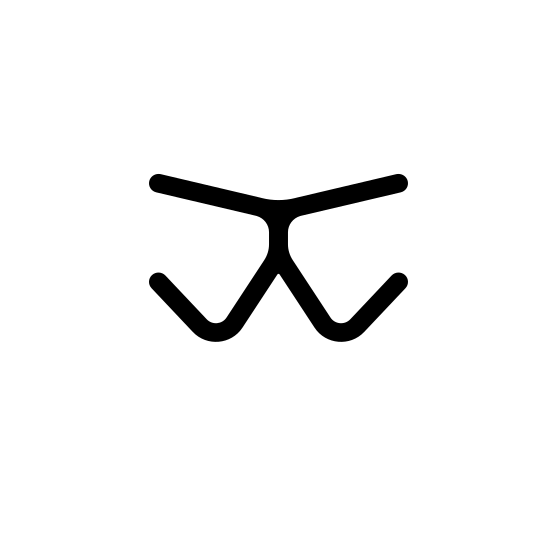
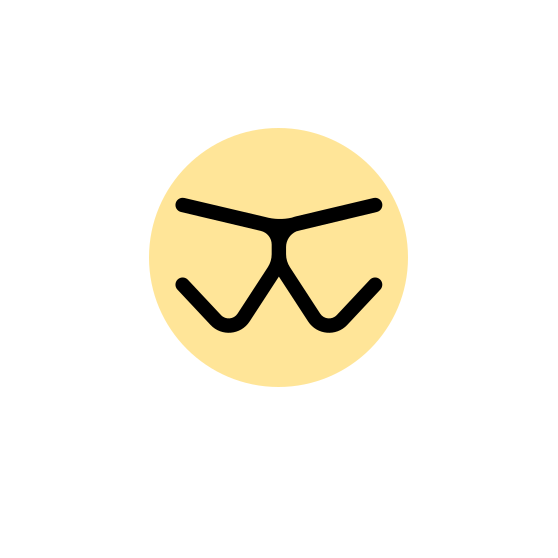
Jacob nits 2 (#9)
* new favicons

* form check

* added url to PackageLineDetails

* noWrapping of urls

Changed region(s): [[0.2437, 0.2133, 0.7312, 0.7007]]

diff --git a/src/components/publish/PublishView.tsx b/src/components/publish/PublishView.tsx
@@ -16,6 +16,7 @@ import React from "react";
 import styled from "styled-components";
 import { API_URL } from "../../App";
 import { ReactComponent as PackageFactory } from "../../assets/images/package-factory.svg";
+import { tiger } from "../../assets/theme/theme";
 import Footer, { footerHeight } from "../general/Footer";
 import { SnackBar } from "../general/SnackBar";
 
@@ -62,6 +63,8 @@ const styles = (theme: Theme) =>
       fontSize: 18,
       color: theme.palette.primary.dark,
       marginBottom: -12,
+      display: "flex",
+      placeItems: "flex-end",
     },
     description: {
       marginBottom: theme.spacing(3),
@@ -85,6 +88,9 @@ const styles = (theme: Theme) =>
       margin: 4,
       marginLeft: 15,
       marginRight: 15,
+    },
+    star: {
+      color: tiger,
     },
   });
 
@@ -140,6 +146,10 @@ class PublishView extends React.Component<PublishProps, PublishState> {
     }
   }
 
+  componentDidMount() {
+    this.setState({ url: "", version: "" });
+  }
+
   render() {
     const state: PublishState = this.state || {};
     return (
@@ -154,7 +164,9 @@ class PublishView extends React.Component<PublishProps, PublishState> {
               faster. Learn how to write a package at{" "}
               <Link href="https://docs.toit.io/language/package/pkgtutorial">docs.toit.io</Link>. Thanks.
             </Typography>
-            <InputLabel className={this.props.classes.formText}>Git url*</InputLabel>
+            <InputLabel className={this.props.classes.formText}>
+              Git URL<Typography className={this.props.classes.star}>*</Typography>
+            </InputLabel>
             <BlackBorderTextField
               variant="outlined"
               margin="normal"
@@ -168,7 +180,9 @@ class PublishView extends React.Component<PublishProps, PublishState> {
               size="small"
               className={this.props.classes.textField}
             />
-            <InputLabel className={this.props.classes.formText}>Git tag*</InputLabel>
+            <InputLabel className={this.props.classes.formText}>
+              Git tag<Typography className={this.props.classes.star}>*</Typography>
+            </InputLabel>
             <BlackBorderTextField
               variant="outlined"
               margin="normal"
@@ -188,6 +202,7 @@ class PublishView extends React.Component<PublishProps, PublishState> {
                 variant="contained"
                 className={this.props.classes.button}
                 color="primary"
+                disabled={state.version === "" || state.url === ""}
                 onClick={() => this.publishPackage()}
               >
                 {!state.loading ? (
@@ -198,9 +213,9 @@ class PublishView extends React.Component<PublishProps, PublishState> {
               </Button>
             </div>
             <Typography variant="body2" className={this.props.classes.terms}>
-              Your Github repository has to be public to successfully be able to publish a package to the Toit package
-              registry. Your package will be validated by the Toit team and this is only done in order to avoid having
-              packages that are potential harmful.
+              Your Git repository (GitHub, GitLab or other) has to be public to successfully be able to publish a
+              package to the Toit package registry. Your package will be validated by the Toit team and this is only
+              done in order to avoid having packages that are potential harmful.
             </Typography>
           </Grid>
           <Grid item xs={12} md={6} className={this.props.classes.packageFactory}>

diff --git a/src/components/general/PackageLineDetails.tsx b/src/components/general/PackageLineDetails.tsx
@@ -12,13 +12,24 @@ const styles = (theme: Theme) =>
 interface PackageLineDetailsProps extends WithStyles<typeof styles> {
   version: string;
   published: number | undefined;
+  url: string;
 }
 
 class PackageLineDetailsView extends React.Component<PackageLineDetailsProps> {
   render() {
     return (
       <Grid container direction="row">
-        <Typography variant="body2">{this.props.version}</Typography>
+        <Grid item>
+          <Typography variant="body2">{this.props.version}</Typography>
+        </Grid>
+        <Grid item>
+          <Typography className={this.props.classes.dot}>•</Typography>
+        </Grid>
+        <Grid item xs zeroMinWidth>
+          <Typography variant="body2" noWrap>
+            {this.props.url}
+          </Typography>
+        </Grid>
         {/* 
         introduce again when data is available
         <Typography className={this.props.classes.dot}>•</Typography>

diff --git a/src/components/general/PackageCard.tsx b/src/components/general/PackageCard.tsx
@@ -2,6 +2,7 @@ import { Box, createStyles, Grid, Theme, Typography, WithStyles, withStyles } fr
 import { History } from "history";
 import React from "react";
 import { RouteComponentProps, withRouter } from "react-router";
+import PackageLineDetails from "./PackageLineDetails";
 
 const styles = (theme: Theme) =>
   createStyles({
@@ -53,7 +54,7 @@ class PackageCard extends React.Component<PackageLineDetailsProps> {
           <Box className={this.props.classes.featuredPackageContent}>
             <Typography variant="h6">{this.props.name}</Typography>
             <Typography>{this.props.description}</Typography>
-            <Typography variant="body2">{this.props.version}</Typography>
+            <PackageLineDetails url={this.props.url} version={this.props.version} published={Date.now()} />
           </Box>
         </Box>
       </Grid>

diff --git a/src/components/search/SearchPackage.tsx b/src/components/search/SearchPackage.tsx
@@ -39,7 +39,7 @@ class SearchPackage extends React.Component<SearchPackageProps> {
           <Grid item xs={12}>
             <Typography variant="h6">{this.props.name}</Typography>
             <Typography>{this.props.description}</Typography>
-            <PackageLineDetails version={this.props.version} published={this.props.published} />
+            <PackageLineDetails version={this.props.version} published={this.props.published} url={this.props.url} />
           </Grid>
         </Box>
       </Grid>

diff --git a/src/components/package/PackageView.tsx b/src/components/package/PackageView.tsx
@@ -110,6 +110,7 @@ class PackageView extends React.Component<PackageProps, PackageState> {
               <PackageLineDetails
                 version={this.state.pkgs[this.state.pkgs.length - 1].result.version.version}
                 published={Date.now()}
+                url={this.state.pkgs[this.state.pkgs.length - 1].result.version.url}
               />
               <Grid container className={this.props.classes.content}>
                 <Grid item xs={12} md={8}>
